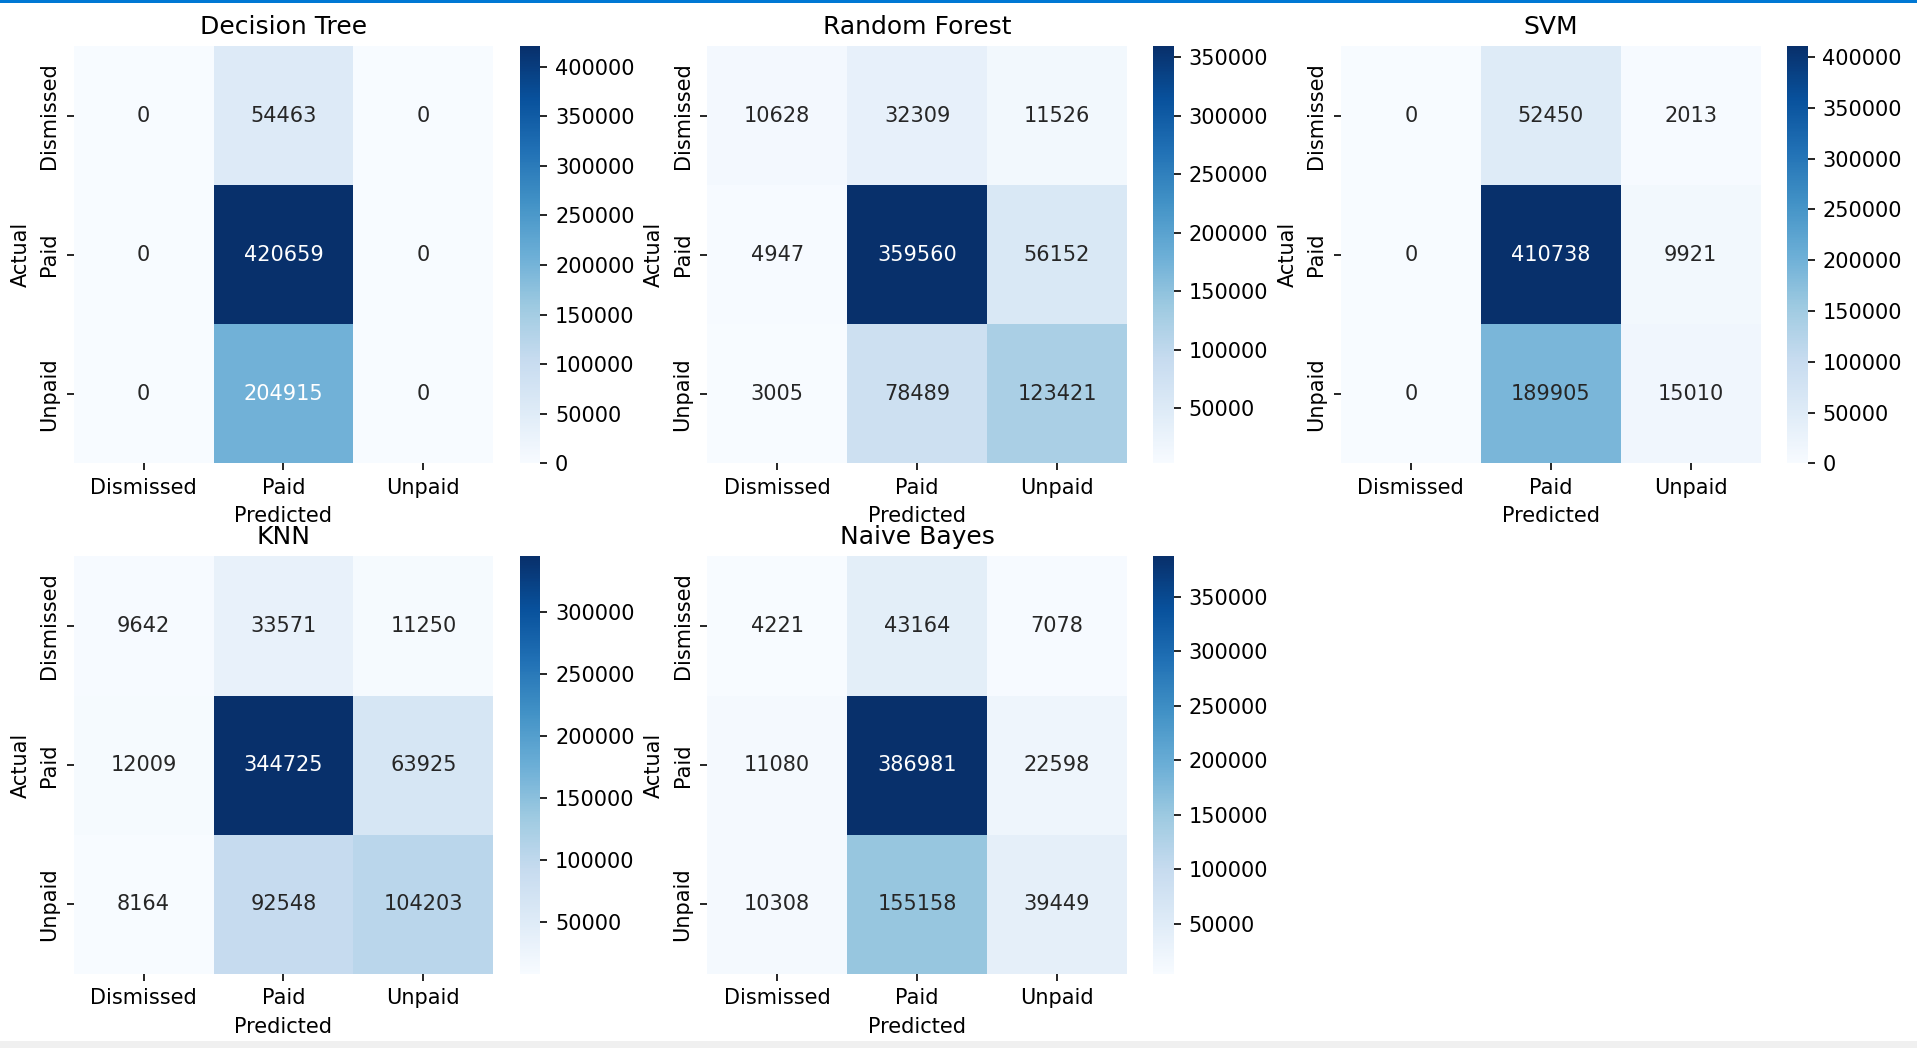
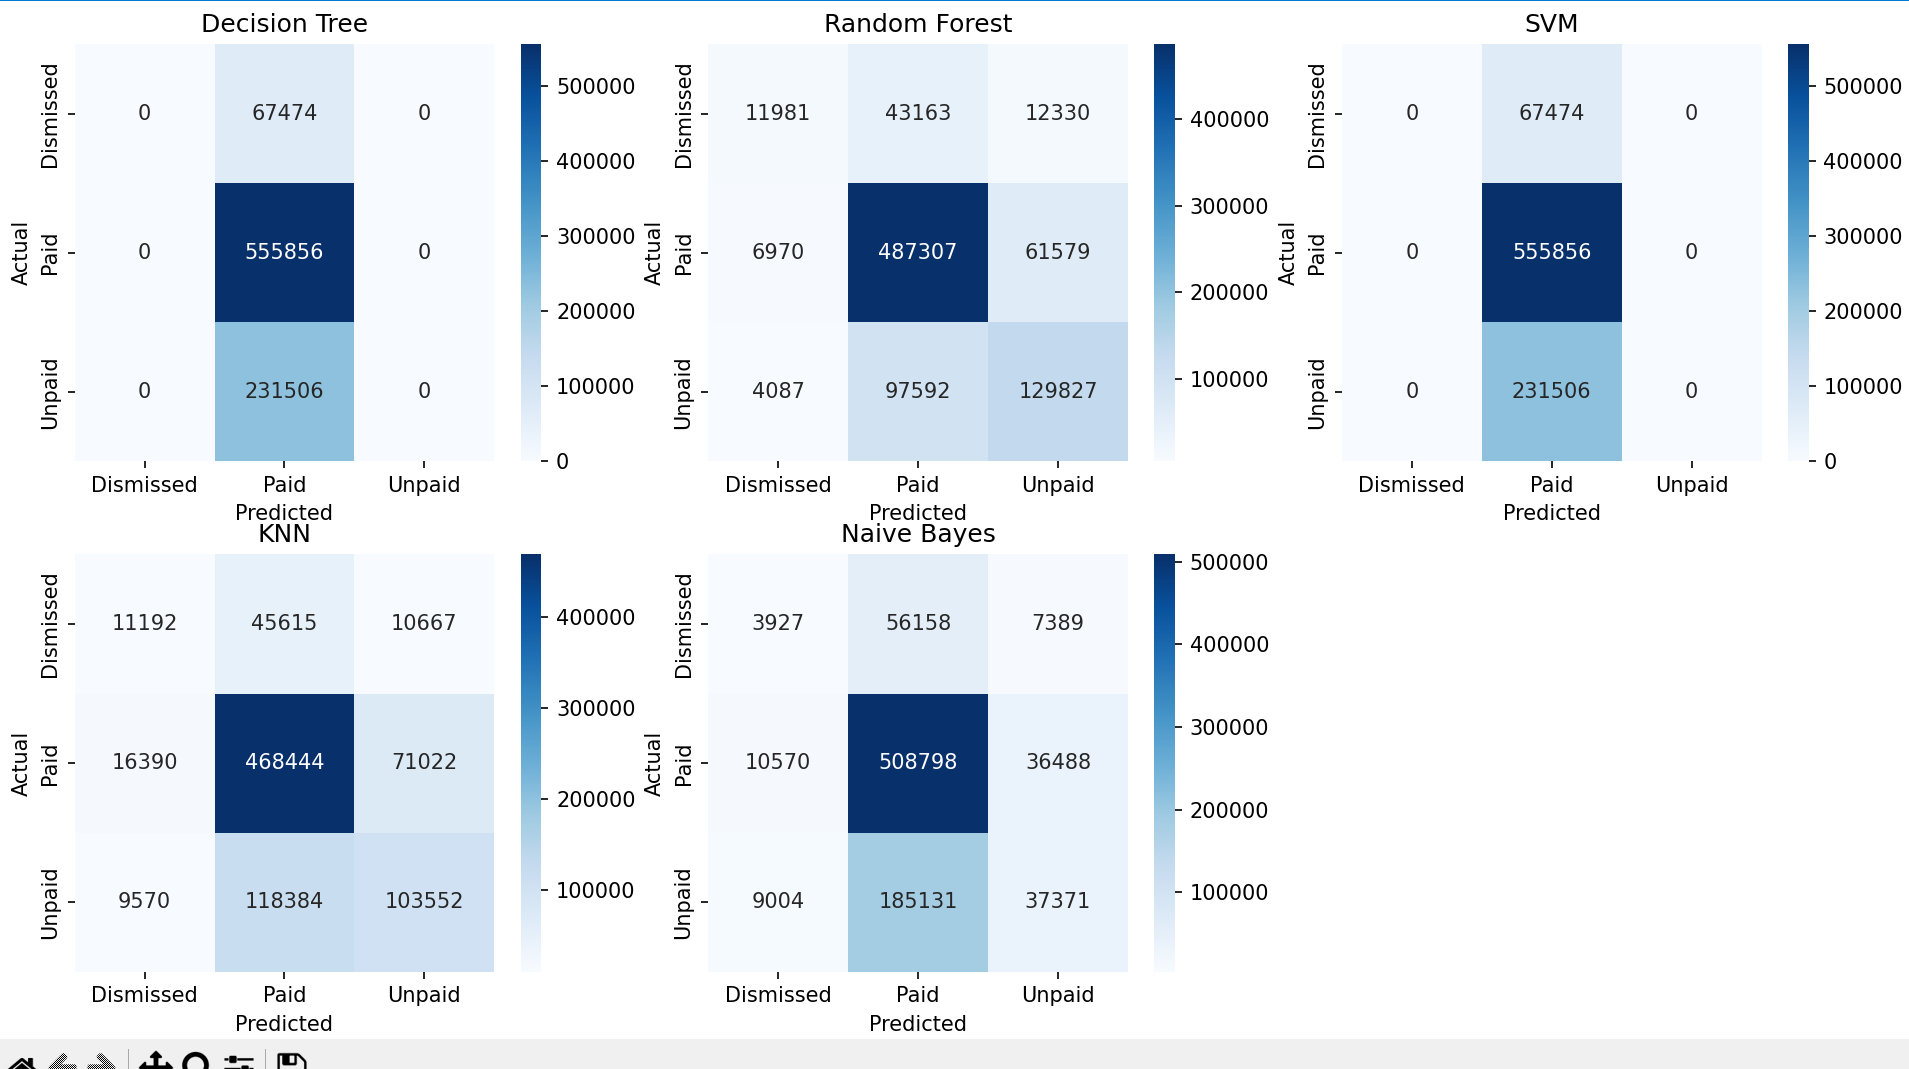
model edit

diff --git a/main.py b/main.py
@@ -8,13 +8,13 @@ import matplotlib.pyplot as plt
 import sklearn as sk
 from sklearn.preprocessing import LabelEncoder
 from sklearn.model_selection import train_test_split
-from sklearn.metrics import f1_score, confusion_matrix, ConfusionMatrixDisplay
+from sklearn.metrics import f1_score, confusion_matrix
 from sklearn.preprocessing import StandardScaler
-from sklearn.tree import DecisionTreeClassifier
 from sklearn.ensemble import RandomForestClassifier
 from sklearn.linear_model import SGDClassifier
 from sklearn.neighbors import KNeighborsClassifier 
 from sklearn.naive_bayes import GaussianNB
+from sklearn.utils.class_weight import compute_sample_weight
 import seaborn as sns
 
 
@@ -84,26 +84,13 @@ else:
 
 ##### cleaned in postgres after this 
 
-### checking nulls on relevant columns
-query = """ SELECT 
-                COUNT(*) FILTER (WHERE zipcode IS NULL OR zipcode = '00000000') as bad_zips,
-                COUNT(*) FILTER (WHERE community_area_name IS NULL) as null_area,
-                COUNT(*) FILTER (WHERE vehicle_make IS NULL) as null_make,
-                COUNT(*) FILTER (WHERE fine_level1_amount IS NULL) as null_fine,
-                COUNT(*) FILTER (WHERE ticket_queue IS NULL OR ticket_queue = '') as null_queue
-            FROM tickets;"""
-
+### checking nulls/invalid values on relevant columns
 #    bad_zips  null_area  null_make  null_fine  null_queue
 # 0         8    4531936          0          0           0
 
 
-### double checking none of them are unknown, fixing in sample  
-query = """SELECT vehicle_make, COUNT(*) as count
-            FROM tickets
-            GROUP BY vehicle_make
-            ORDER BY count ASC
-            LIMIT 30;"""
-
+### double checked no cars are unknown
+# ^ many were mispelled or 'rare', grouped as OTHER in sample
 
 ### cleaned invalid zipcodes
 ### grouped target variable for classification
@@ -232,25 +219,17 @@ x_test = scaler.transform(x_test)
 
 
 ##################################################
-### try to balance class weights later
-
-### decision tree 
-dtree = DecisionTreeClassifier(max_depth = 2, random_state = 0)
-dtree.fit(x_train, y_train)
-dtree_pred = dtree.predict(x_test)
-
-# classes are imbalanced so f1 is better 
-dtree_f1 = f1_score(y_test, dtree_pred, average='weighted')
-dtree_cm = confusion_matrix(y_test, dtree_pred)
+### models, balanced class weights & using f1 score as metric
 
 
 ### random forest 
-rf = RandomForestClassifier()
+rf = RandomForestClassifier(class_weight = 'balanced', random_state = 0)
 rf.fit(x_train, y_train)
 rf_pred = rf.predict(x_test)
 
 rf_f1 = f1_score(y_test, rf_pred, average = 'weighted')
 rf_cm = confusion_matrix(y_test, rf_pred)
+
 
 # feature improtance 
 importances = pd.Series(rf.feature_importances_, index = x.columns)
@@ -262,7 +241,7 @@ plt.show()
 
 
 ### support vector machine
-svm = SGDClassifier(loss = 'hinge', random_state = 0)
+svm = SGDClassifier(loss = 'hinge', random_state = 0, class_weight = 'balanced')
 svm.fit(x_train, y_train)
 svm_pred = svm.predict(x_test)
 
@@ -271,7 +250,7 @@ svm_cm = confusion_matrix(y_test, svm_pred)
 
 
 ### k nearest neighbour
-knn = KNeighborsClassifier(n_neighbors = 5)
+knn = KNeighborsClassifier(n_neighbors = 5, weights = 'distance')
 knn.fit(x_train, y_train)
 knn_pred = knn.predict(x_test)
 
@@ -280,8 +259,10 @@ knn_cm = confusion_matrix(y_test, knn_pred)
 
 
 ### naive bayes 
+# does not have class weights, so using sample balanced weights
+sample_weights = compute_sample_weight('balanced', y_train)
 nb = GaussianNB()
-nb.fit(x_train, y_train)
+nb.fit(x_train, y_train, sample_weight = sample_weights)
 nb_pred = nb.predict(x_test)
 
 nb_f1 = f1_score(y_test, nb_pred, average = 'weighted')
@@ -295,26 +276,30 @@ nb_cm = confusion_matrix(y_test, nb_pred)
 ### modeling results
 
 ### printing out f1 score
-print(f"Decision Tree F1: {dtree_f1:.4f}")
 print(f"Random Forest F1: {rf_f1:.4f}")
 print(f"SVM F1:           {svm_f1:.4f}")
 print(f"KNN F1:           {knn_f1:.4f}")
 print(f"Naive Bayes F1:   {nb_f1:.4f}")
 
-# Decision Tree F1: 0.4728
-# Random Forest F1: 0.7106
-# SVM F1:           0.5123
-# KNN F1:           0.6601
-# Naive Bayes F1:   0.5711
+
+# Random Forest F1: 0.7178
+# SVM F1:           0.5124
+# KNN F1:           0.6641
+# Naive Bayes F1:   0.5782
+
+# after balancing classes and using weighted f1 score
+# Random Forest F1: 0.7160
+# SVM F1:           0.5740
+# KNN F1:           0.6660
+# Naive Bayes F1:   0.6008
 
 
 ### confusion matrices
-### combined confusion matrices
-fig, axes = plt.subplots(2, 3, figsize=(15, 9))
+fig, axes = plt.subplots(2, 2, figsize=(15, 9))
 axes = axes.flatten()
 
-cms = [dtree_cm, rf_cm, svm_cm, knn_cm, nb_cm]
-titles = ['Decision Tree', 'Random Forest', 'SVM', 'KNN', 'Naive Bayes']
+cms = [rf_cm, svm_cm, knn_cm, nb_cm]
+titles = ['Random Forest', 'SVM', 'KNN', 'Naive Bayes']
 
 for ax, cm, title in zip(axes, cms, titles):
     sns.heatmap(cm, annot = True, cmap = 'Blues', fmt = 'd', ax = ax,
@@ -323,8 +308,6 @@ for ax, cm, title in zip(axes, cms, titles):
     ax.set_title(title)
     ax.set_xlabel('Predicted')
     ax.set_ylabel('Actual')
-
-axes[5].set_visible(False)
 
 plt.tight_layout()
 plt.show()